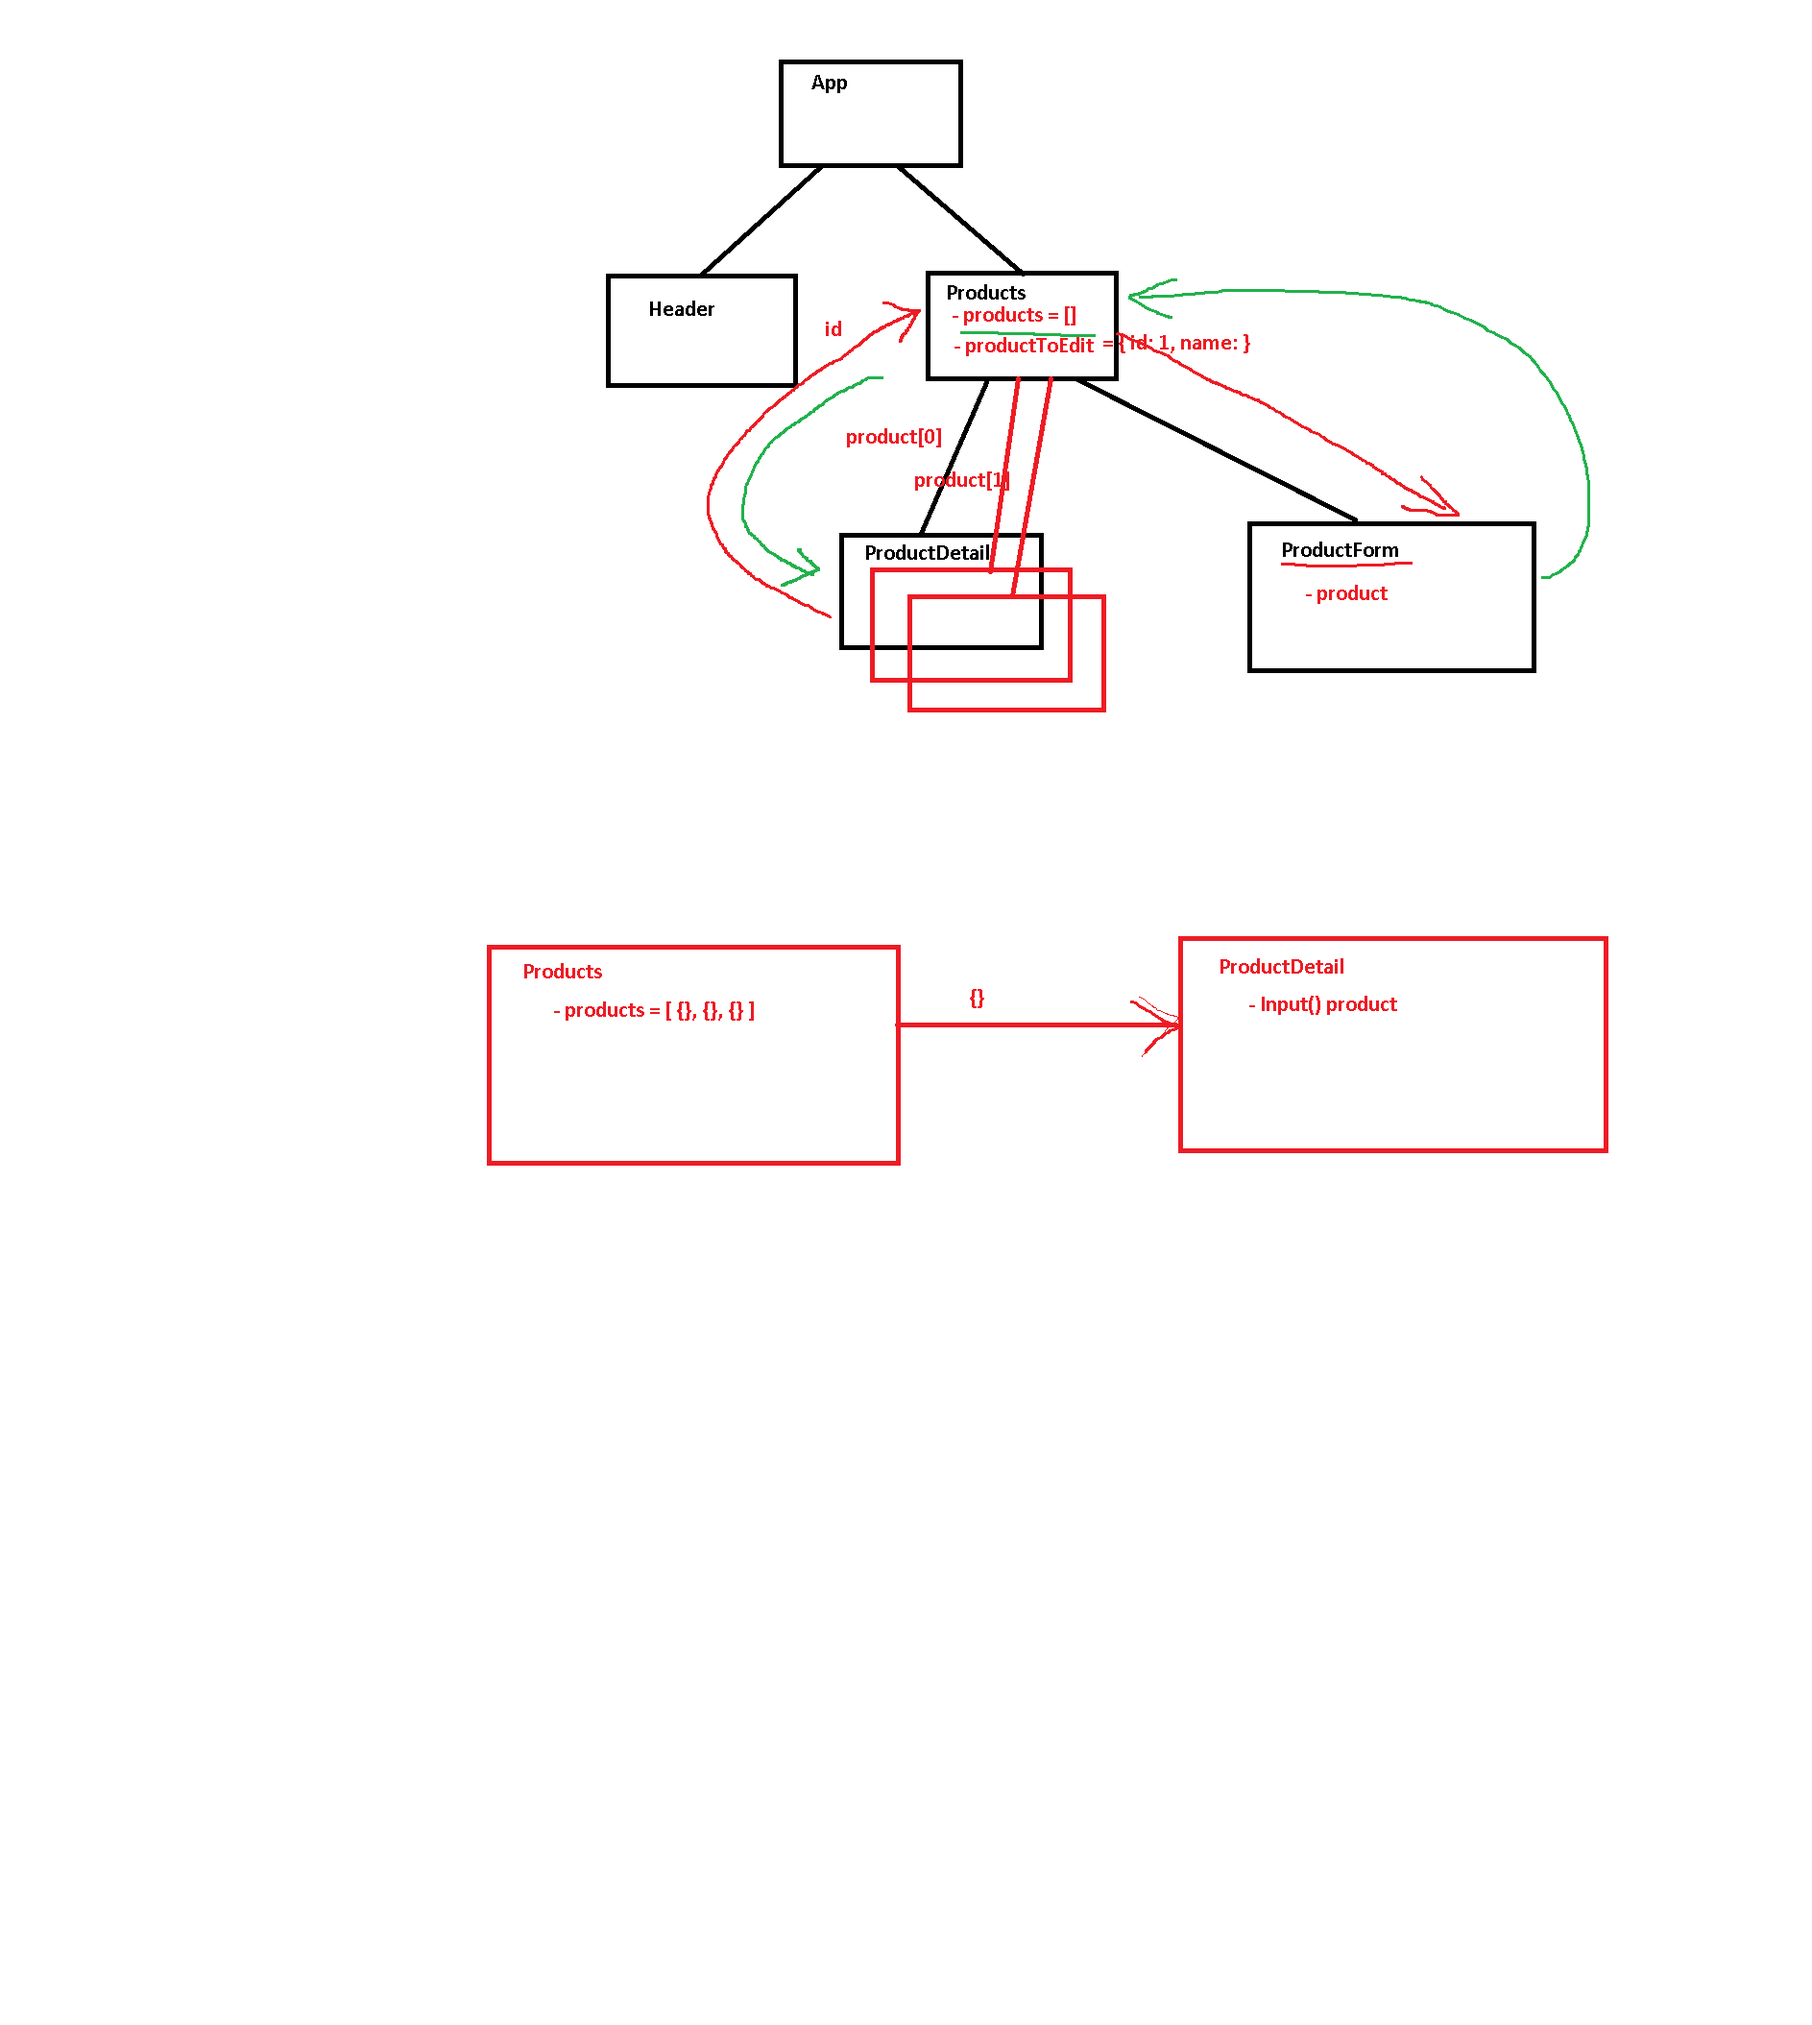
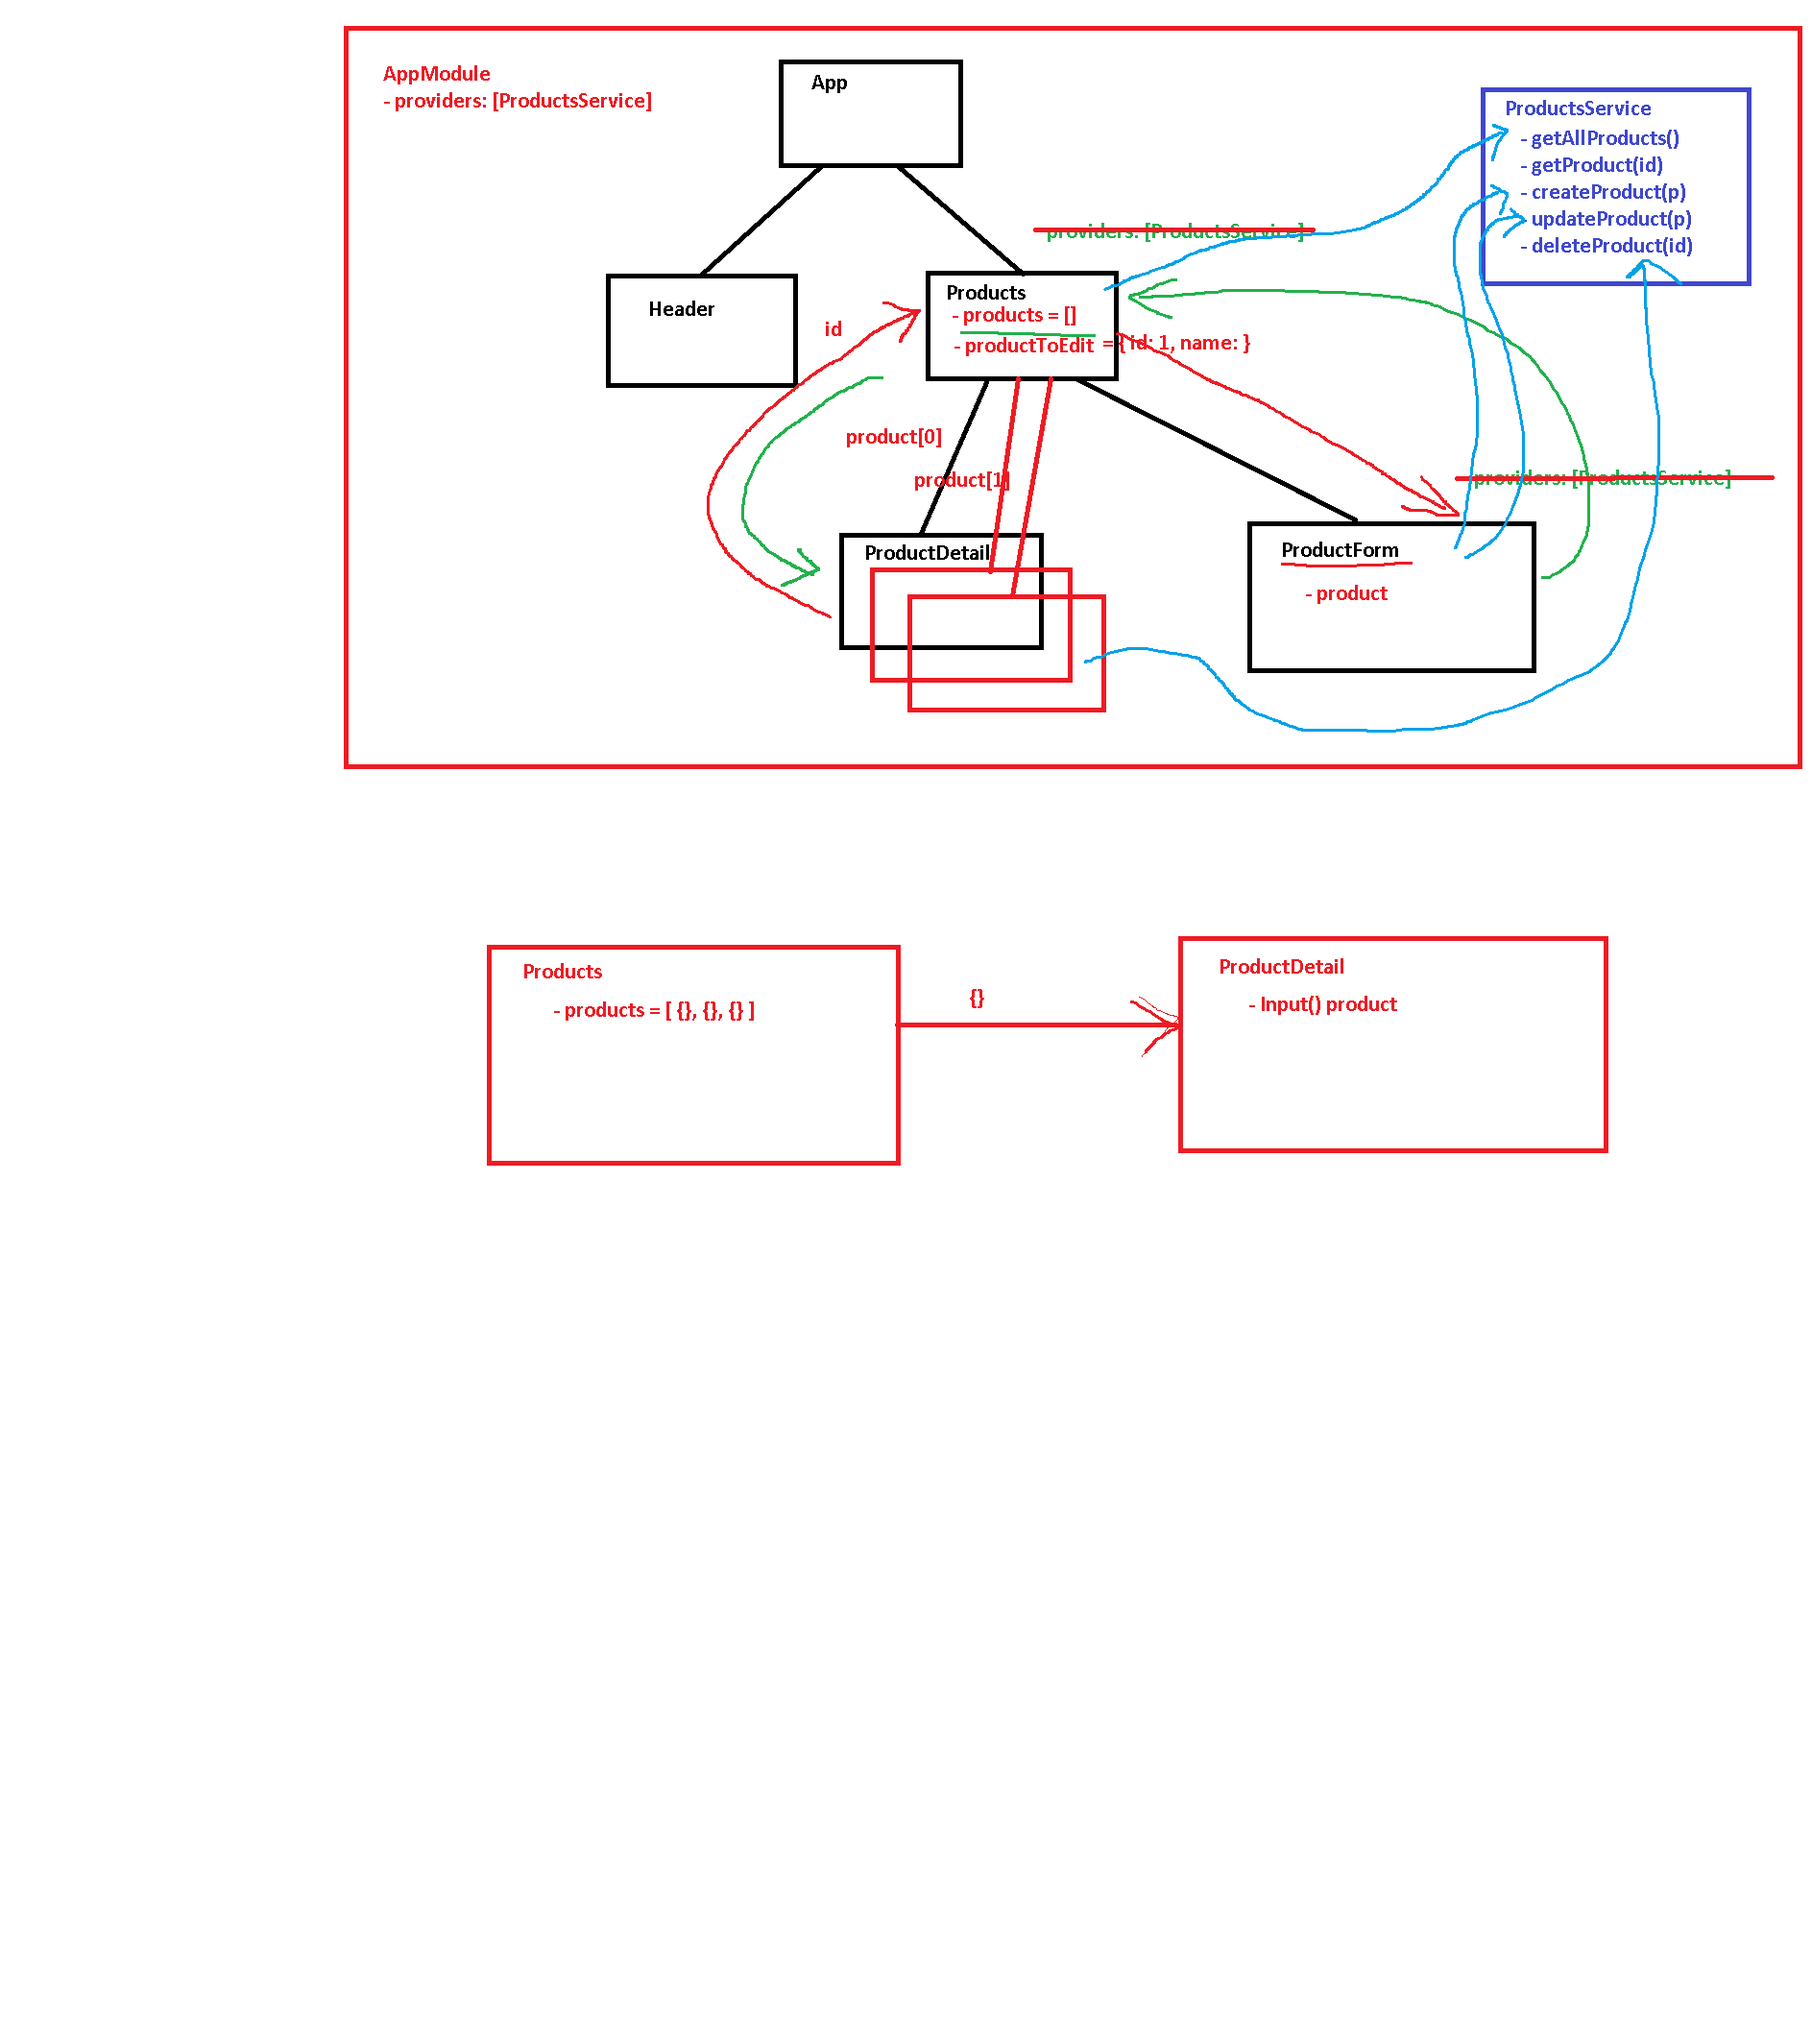
commit services demo into day 7

diff --git a/apps/day-07/store-app-services/src/app/products/products.component.ts b/apps/day-07/store-app-services/src/app/products/products.component.ts
@@ -1,4 +1,5 @@
-import { Component, OnInit } from '@angular/core';
+import { Component, OnDestroy, OnInit } from '@angular/core';
+import { Subscription } from 'rxjs';
 
 import { ProductModel } from './product.model';
 import { ProductsService } from './products.service';
@@ -8,39 +9,20 @@ import { ProductsService } from './products.service';
   templateUrl: './products.component.html',
   styleUrls: ['./products.component.css']
 })
-export class ProductsComponent implements OnInit {
+export class ProductsComponent implements OnInit, OnDestroy {
   productToEdit: ProductModel;
-  service: ProductsService;
+  subRefreshProducts: Subscription;
 
   products: ProductModel[] = [];
 
-  constructor(service: ProductsService) {
-    this.service = service;
-  }
+  constructor(private service: ProductsService) { }
 
   ngOnInit(): void {
+    this.subRefreshProducts = this.service.refreshProducts.subscribe((products: ProductModel[]) => {
+      this.products = products;
+    })
+
     this.products = this.service.getAllProducts();
-  }
-
-  onCreateProduct(newProduct: ProductModel) {
-    newProduct.id = Date.now();
-    this.products.unshift(newProduct);
-  }
-
-  onUpdateProduct(product: ProductModel) {
-    // solution #1
-    this.products = this.products.map(p => p.id === product.id ? product : p);
-
-    // solution #2
-    // const productToUpdate = this.products.find(p => p.id === product.id);
-    // if (productToUpdate) {
-    //   productToUpdate.name = product.name;
-    //   productToUpdate.description = product.description;
-    //   productToUpdate.price = product.price;
-    //   productToUpdate.isAvailable = product.isAvailable;
-    // }
-
-    this.productToEdit = null;
   }
 
   onCancelEditProduct() {
@@ -48,19 +30,13 @@ export class ProductsComponent implements OnInit {
   }
 
   onEditProduct(id: number) {
-    const product = this.products.find(p => p.id === id);
-    if (product) {
-      this.productToEdit = { ...product };
-    }
+    this.productToEdit = this.service.getProduct(id);
   }
 
-  onDeleteProduct(id: number) {
-    // solution #1
-    const index = this.products.findIndex(p => p.id === id);
-    this.products.splice(index, 1);
-
-    // solution #2
-    // this.products = this.products.filter(p => p.id !== id);
+  ngOnDestroy() {
+    if (this.subRefreshProducts) {
+      this.subRefreshProducts.unsubscribe();
+    }
   }
 
 }

diff --git a/apps/day-07/store-app-services/src/app/products/product-form/product-form.component.ts b/apps/day-07/store-app-services/src/app/products/product-form/product-form.component.ts
@@ -1,6 +1,8 @@
 import { Component, OnInit, Output, EventEmitter, OnChanges, SimpleChanges, Input } from '@angular/core';
 
 import { ProductModel } from '../product.model';
+import { ProductsService } from '../products.service';
+import { LoggerService } from '../../common/logger.service';
 
 @Component({
   selector: 'app-product-form',
@@ -13,11 +15,12 @@ export class ProductFormComponent implements OnInit, OnChanges {
 
   @Input() product: ProductModel;
 
-  @Output() createProduct = new EventEmitter<ProductModel>();
-  @Output() updateProduct = new EventEmitter<ProductModel>();
   @Output() cancelEditProduct = new EventEmitter();
 
-  constructor() { }
+  constructor(
+    private service: ProductsService,
+    private logger: LoggerService
+  ) { }
 
   ngOnChanges(changes: SimpleChanges): void {
     if (changes.product.currentValue) {
@@ -31,6 +34,8 @@ export class ProductFormComponent implements OnInit, OnChanges {
   ngOnInit(): void { }
 
   onSubmit() {
+    this.logger.log('Saving product information.');
+
     const price = +this.product.price;
     const product: ProductModel = {
       ...this.product,
@@ -39,9 +44,9 @@ export class ProductFormComponent implements OnInit, OnChanges {
     }
 
     if (this.createNew) {
-      this.createProduct.emit(product);
+      this.service.addProduct(product);
     } else {
-      this.updateProduct.emit(product);
+      this.service.updateProduct(product);
     }
     this.product = new ProductModel();
 

diff --git a/apps/day-07/store-app-services/src/app/products/products.service.ts b/apps/day-07/store-app-services/src/app/products/products.service.ts
@@ -1,12 +1,14 @@
 import { Injectable } from '@angular/core';
+import { Subject } from 'rxjs';
 
 import { ProductModel } from './product.model';
+import { LoggerService } from '../common/logger.service';
 
-// @Injectable({
-//   providedIn: 'root'
-// })
-@Injectable()
+@Injectable({
+  providedIn: 'root'
+})
 export class ProductsService {
+  refreshProducts = new Subject<ProductModel[]>();
 
   private products: ProductModel[] = [
     {
@@ -32,10 +34,11 @@ export class ProductsService {
     }
   ];
 
-  constructor() { }
+  constructor(private logger: LoggerService) { }
 
   // Called from ProductsComponent
   getAllProducts(): ProductModel[] {
+    this.logger.log('Get all products invoked.');
     return [...this.products];
   }
 
@@ -55,15 +58,18 @@ export class ProductsService {
   addProduct(product: ProductModel) {
     product.id = Date.now();
     this.products = [...this.products, product];
+    this.refreshProducts.next([...this.products]);
   }
 
   // Called from ProductFormComponent
   updateProduct(product: ProductModel) {
     this.products = this.products.map(p => p.id === product.id ? product : p);
+    this.refreshProducts.next([...this.products]);
   }
 
   // Called from ProductDetailComponent
   deleteProduct(id: number) {
     this.products = this.products.filter(p => p.id !== id);
+    this.refreshProducts.next([...this.products]);
   }
 }

diff --git a/apps/day-07/store-app-services/src/app/products/product-detail/product-detail.component.ts b/apps/day-07/store-app-services/src/app/products/product-detail/product-detail.component.ts
@@ -1,6 +1,7 @@
 import { Component, OnInit, Input, Output, EventEmitter } from '@angular/core';
 
 import { ProductModel } from '../product.model';
+import { ProductsService } from '../products.service';
 
 @Component({
   selector: 'app-product-detail',
@@ -10,16 +11,15 @@ import { ProductModel } from '../product.model';
 export class ProductDetailComponent implements OnInit {
   @Input() product: ProductModel = new ProductModel();
 
-  @Output() deleteProduct = new EventEmitter<number>();
   @Output() editProduct = new EventEmitter<number>();
 
-  constructor() { }
+  constructor(private service: ProductsService) { }
 
   ngOnInit(): void { }
 
   onDelete() {
     if (window.confirm('Are you sure?')) {
-      this.deleteProduct.emit(this.product.id);
+      this.service.deleteProduct(this.product.id);
     }
   }
 

diff --git a/apps/day-07/store-app-services/src/app/products/products.component.html b/apps/day-07/store-app-services/src/app/products/products.component.html
@@ -3,14 +3,12 @@
   <div class="row">
 
     <div class="col-4">
-      <app-product-form [product]="productToEdit" (createProduct)="onCreateProduct($event)"
-        (updateProduct)="onUpdateProduct($event)" (cancelEditProduct)="onCancelEditProduct()"></app-product-form>
+      <app-product-form [product]="productToEdit" (cancelEditProduct)="onCancelEditProduct()"></app-product-form>
     </div>
 
     <div class="col-8">
       <h4>Products</h4>
-      <app-product-detail [product]="p" *ngFor="let p of products" (deleteProduct)="onDeleteProduct($event)"
-        (editProduct)="onEditProduct($event)">
+      <app-product-detail [product]="p" *ngFor="let p of products" (editProduct)="onEditProduct($event)">
       </app-product-detail>
     </div>
 

diff --git a/apps/day-07/store-app-services/src/app/app.module.ts b/apps/day-07/store-app-services/src/app/app.module.ts
@@ -8,8 +8,6 @@ import { ProductsComponent } from './products/products.component';
 import { ProductDetailComponent } from './products/product-detail/product-detail.component';
 import { ProductFormComponent } from './products/product-form/product-form.component';
 
-import { ProductsService } from './products/products.service';
-
 @NgModule({
   declarations: [
     AppComponent,
@@ -22,7 +20,9 @@ import { ProductsService } from './products/products.service';
     BrowserModule,
     FormsModule
   ],
-  providers: [ProductsService],
+  providers: [],
   bootstrap: [AppComponent]
 })
 export class AppModule { }
+
+// Dead Code Elimination - Tree Shaking Provider

diff --git a/apps/day-07/store-app-services/src/app/common/logger.service.ts b/apps/day-07/store-app-services/src/app/common/logger.service.ts
@@ -1,0 +1,12 @@
+import { Injectable } from '@angular/core';
+
+@Injectable({
+  providedIn: 'root'
+})
+export class LoggerService {
+  log(message: string) {
+    console.log('LoggerService.log():', message);
+  }
+}
+
+// 1000 lines of code - webpack
